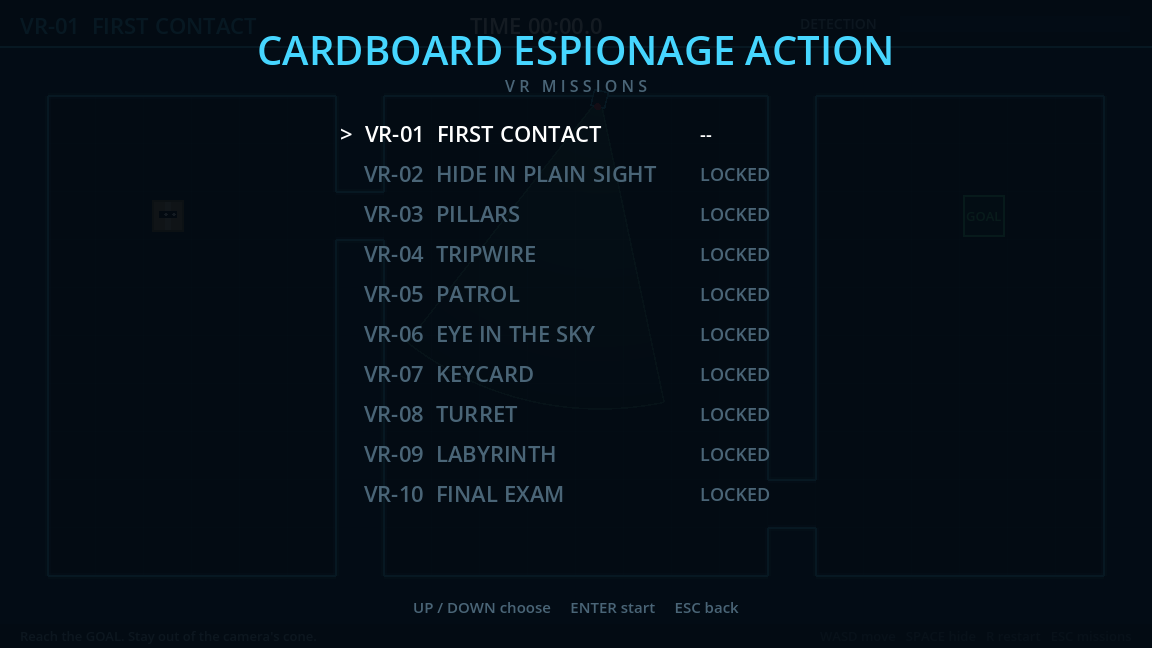
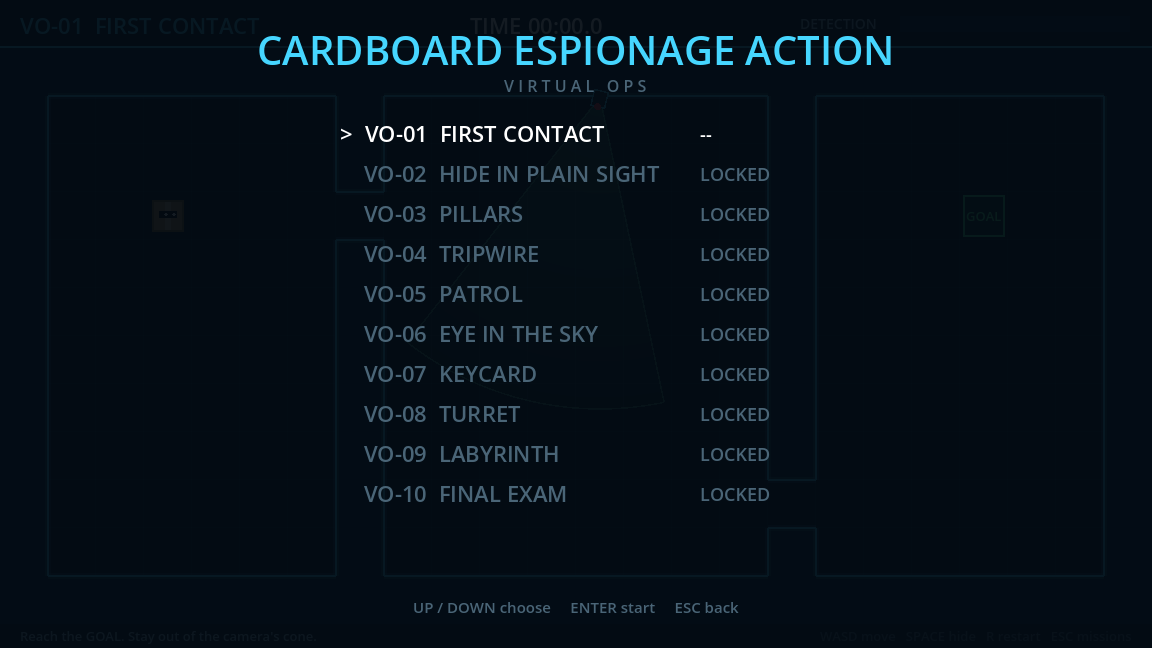
v0.2.1: Virtual Ops, one-command installers, play in the browser
- Rename the mission set from "VR Missions" to "Virtual Ops" (VO-01..VO-10)
- install.sh (macOS/Linux) and install.ps1 (Windows) install the latest
  release in one command
- Tagged releases deploy the web build to GitHub Pages
- Re-recorded demo GIFs and menu screenshot

diff --git a/README.md b/README.md
@@ -2,16 +2,31 @@
 
 A top-down stealth game where you are a cardboard box. Sneak through 10 wireframe missions past sweeping cameras, patrolling guards, drones, laser tripwires and a spinning turret. When something looks your way, hold still: it's just a box.
 
-![The autopilot beating VR-10 Final Exam (2x speed)](docs/media/demo.gif)
+![The autopilot beating VO-10 Final Exam (2x speed)](docs/media/demo.gif)
 
-*The built-in autopilot beating the Final Exam at 2× speed. [Watch it beat all 10 missions (3½ min)](../../releases/download/v0.2.0/CardboardEspionageAction-autopilot-playthrough.mp4).*
+*The built-in autopilot beating the Final Exam at 2× speed. [Watch it beat all 10 missions (3½ min)](../../releases/download/v0.2.1/CardboardEspionageAction-autopilot-playthrough.mp4).*
 
-## Download
-Grab the latest build for **Windows, macOS, Linux or Web** from [Releases](../../releases).
+## Play
+**▶ [Play in your browser](https://ahab94.github.io/cardboard-espionage-action/)**: nothing to install.
 
-- **macOS:** the app isn't notarized. Right-click → Open the first time, or run `xattr -dr com.apple.quarantine "Cardboard Espionage Action.app"`.
-- **Linux:** `chmod +x CardboardEspionageAction.x86_64` then run it.
-- **Web:** serve the unzipped folder with any static web server (for example `python3 -m http.server`) and open `index.html`.
+Or install the desktop version with one command:
+
+**macOS / Linux**
+```bash
+curl -fsSL https://raw.githubusercontent.com/ahab94/cardboard-espionage-action/main/install.sh | bash
+```
+
+**Windows** (PowerShell)
+```powershell
+irm https://raw.githubusercontent.com/ahab94/cardboard-espionage-action/main/install.ps1 | iex
+```
+
+- macOS installs to `~/Applications`.
+- Linux installs to `~/.local/share` and adds a `cardboard-espionage-action` command and an app-menu entry.
+- Windows installs to `%LOCALAPPDATA%` and adds a Start menu shortcut.
+- To uninstall on macOS/Linux, run the same command with `UNINSTALL=1` before `bash`.
+
+You can also download the zips directly from [Releases](../../releases). The macOS app isn't notarized, so on first launch right-click → Open.
 
 ## Controls
 | Key | Action |
@@ -35,11 +50,11 @@ Each mission adds one new thing. All clips show the autopilot at 2× speed.
 
 | | |
 |---|---|
-| ![VR-01](docs/media/missions/vr-01.gif)<br>**VR-01 First Contact:** one sweeping camera | ![VR-02](docs/media/missions/vr-02.gif)<br>**VR-02 Hide in Plain Sight:** hold Space as cones pass |
-| ![VR-03](docs/media/missions/vr-03.gif)<br>**VR-03 Pillars:** hide in the cameras' shadows | ![VR-04](docs/media/missions/vr-04.gif)<br>**VR-04 Tripwire:** time the laser waves |
-| ![VR-05](docs/media/missions/vr-05.gif)<br>**VR-05 Patrol:** two guards on crossing routes | ![VR-06](docs/media/missions/vr-06.gif)<br>**VR-06 Eye in the Sky:** drones ignore walls |
-| ![VR-07](docs/media/missions/vr-07.gif)<br>**VR-07 Keycard:** raid the guarded vault | ![VR-08](docs/media/missions/vr-08.gif)<br>**VR-08 Turret:** stay behind its back |
-| ![VR-09](docs/media/missions/vr-09.gif)<br>**VR-09 Labyrinth:** cameras, a guard and a drone | ![VR-10](docs/media/missions/vr-10.gif)<br>**VR-10 Final Exam:** everything at once |
+| ![VO-01](docs/media/missions/vo-01.gif)<br>**VO-01 First Contact:** one sweeping camera | ![VO-02](docs/media/missions/vo-02.gif)<br>**VO-02 Hide in Plain Sight:** hold Space as cones pass |
+| ![VO-03](docs/media/missions/vo-03.gif)<br>**VO-03 Pillars:** hide in the cameras' shadows | ![VO-04](docs/media/missions/vo-04.gif)<br>**VO-04 Tripwire:** time the laser waves |
+| ![VO-05](docs/media/missions/vo-05.gif)<br>**VO-05 Patrol:** two guards on crossing routes | ![VO-06](docs/media/missions/vo-06.gif)<br>**VO-06 Eye in the Sky:** drones ignore walls |
+| ![VO-07](docs/media/missions/vo-07.gif)<br>**VO-07 Keycard:** raid the guarded vault | ![VO-08](docs/media/missions/vo-08.gif)<br>**VO-08 Turret:** stay behind its back |
+| ![VO-09](docs/media/missions/vo-09.gif)<br>**VO-09 Labyrinth:** cameras, a guard and a drone | ![VO-10](docs/media/missions/vo-10.gif)<br>**VO-10 Final Exam:** everything at once |
 
 Best times and unlocked missions are saved between sessions.
 

diff --git a/CLAUDE.md b/CLAUDE.md
@@ -14,7 +14,7 @@ Top-down stealth game in Godot 4.7 (GDScript): you are a cardboard box sneaking 
   - Add `--fixed-fps 60` (a Godot flag, before `--`) to run faster than real time.
 - Visuals: `godot --path . -- --level=N --screenshot=<scratchpad>/shot.png`, then Read the PNG. Godot windows launched from a terminal can't be seen by computer use; use the editor's Play button instead.
 - Demos: `bash tools/record_demos.sh` records autopilot runs with Movie Maker into `docs/media/` GIFs plus `build/demos/full-playthrough.mp4` (needs ffmpeg). Upload the mp4 to each release as `CardboardEspionageAction-autopilot-playthrough.mp4`.
-- Release: pushing a `v*` tag runs `.github/workflows/release.yml`, which exports Windows/macOS/Linux/Web builds via `export_presets.cfg` and attaches them to a GitHub Release.
+- Release: pushing a `v*` tag runs `.github/workflows/release.yml`, which exports Windows/macOS/Linux/Web builds via `export_presets.cfg` and attaches them to a GitHub Release, and deploys the web build to https://ahab94.github.io/cardboard-espionage-action/. Write `docs/releases/<tag>.md` before tagging. `install.sh` and `install.ps1` install the latest release in one command.
 
 ## Layout
 - `scripts/levels.gd`: missions as ASCII maps plus patrol/laser/turret config; the format is documented at the top of the file.
@@ -27,6 +27,6 @@ Top-down stealth game in Godot 4.7 (GDScript): you are a cardboard box sneaking 
 
 ## Conventions
 - Enemies must stay deterministic. Each exposes a forecast (`angle_at`, `forecast`, `active_after`) that the autopilot relies on; keep these in sync with the real movement code (soldier and drone share `_advance`).
-- Nodes are built in code and drawn with `_draw()`; there are no art assets yet. Keep the VR palette: navy, cyan `#46d6ff`, goal green `#4dff9a`, alert yellow/red, door orange.
+- Nodes are built in code and drawn with `_draw()`; there are no art assets yet. Keep the wireframe palette: navy, cyan `#46d6ff`, goal green `#4dff9a`, alert yellow/red, door orange.
 - Scripts reference each other with `preload`, not `class_name`, so headless `--script` runs work.
 - Add a test for each new mechanic. Comments explain why, not what. The user is learning Godot, so briefly explain new engine concepts.

diff --git a/docs/releases/v0.2.1.md b/docs/releases/v0.2.1.md
@@ -1,0 +1,20 @@
+**Play in your browser:** https://ahab94.github.io/cardboard-espionage-action/
+
+### What's new
+- The missions are now **Virtual Ops** (VO-01 … VO-10).
+- One-command installers:
+  - macOS / Linux: `curl -fsSL https://raw.githubusercontent.com/ahab94/cardboard-espionage-action/main/install.sh | bash`
+  - Windows: `irm https://raw.githubusercontent.com/ahab94/cardboard-espionage-action/main/install.ps1 | iex`
+- Each release now deploys the web build to GitHub Pages automatically.
+
+### Downloads
+| Platform | File |
+|---|---|
+| Windows | `CardboardEspionageAction-v0.2.1-windows.zip` |
+| macOS (universal) | `CardboardEspionageAction-v0.2.1-macos.zip`. Not notarized: right-click → Open the first time |
+| Linux (x86_64) | `CardboardEspionageAction-v0.2.1-linux.zip` |
+| Web | `CardboardEspionageAction-v0.2.1-web.zip` |
+
+🎬 `CardboardEspionageAction-autopilot-playthrough.mp4`: the autopilot beating all 10 missions.
+
+**Controls:** Arrows/WASD move · hold Space to hide · R restart · Esc mission select
